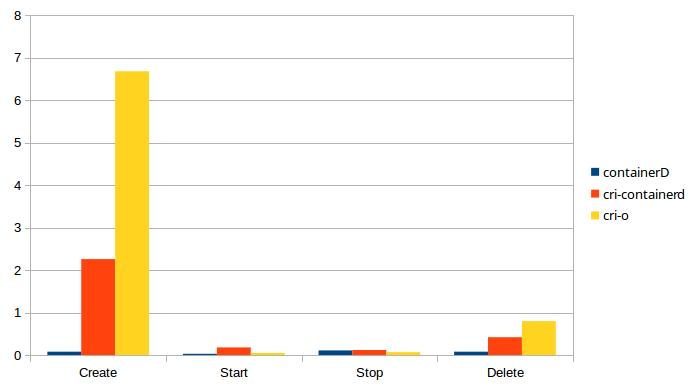
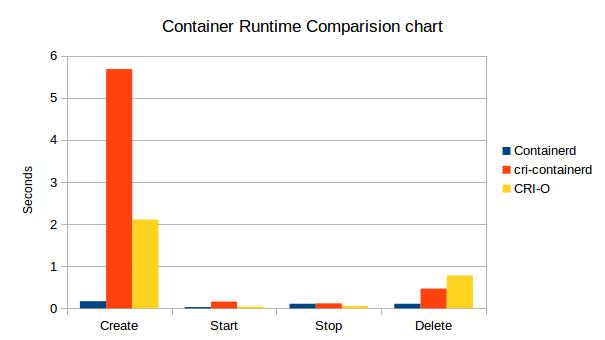
Updated Performance Graph

diff --git a/README.md b/README.md
@@ -74,7 +74,7 @@ Flags:
 
 #### Performace:
 
-Below is some performace numbers as of ``Oct 12, 2017``
+Below is some performace numbers as of ``Oct 23, 2017``
 
 ![Perfomance](Performance.jpg)
 * _All using same runc version_
